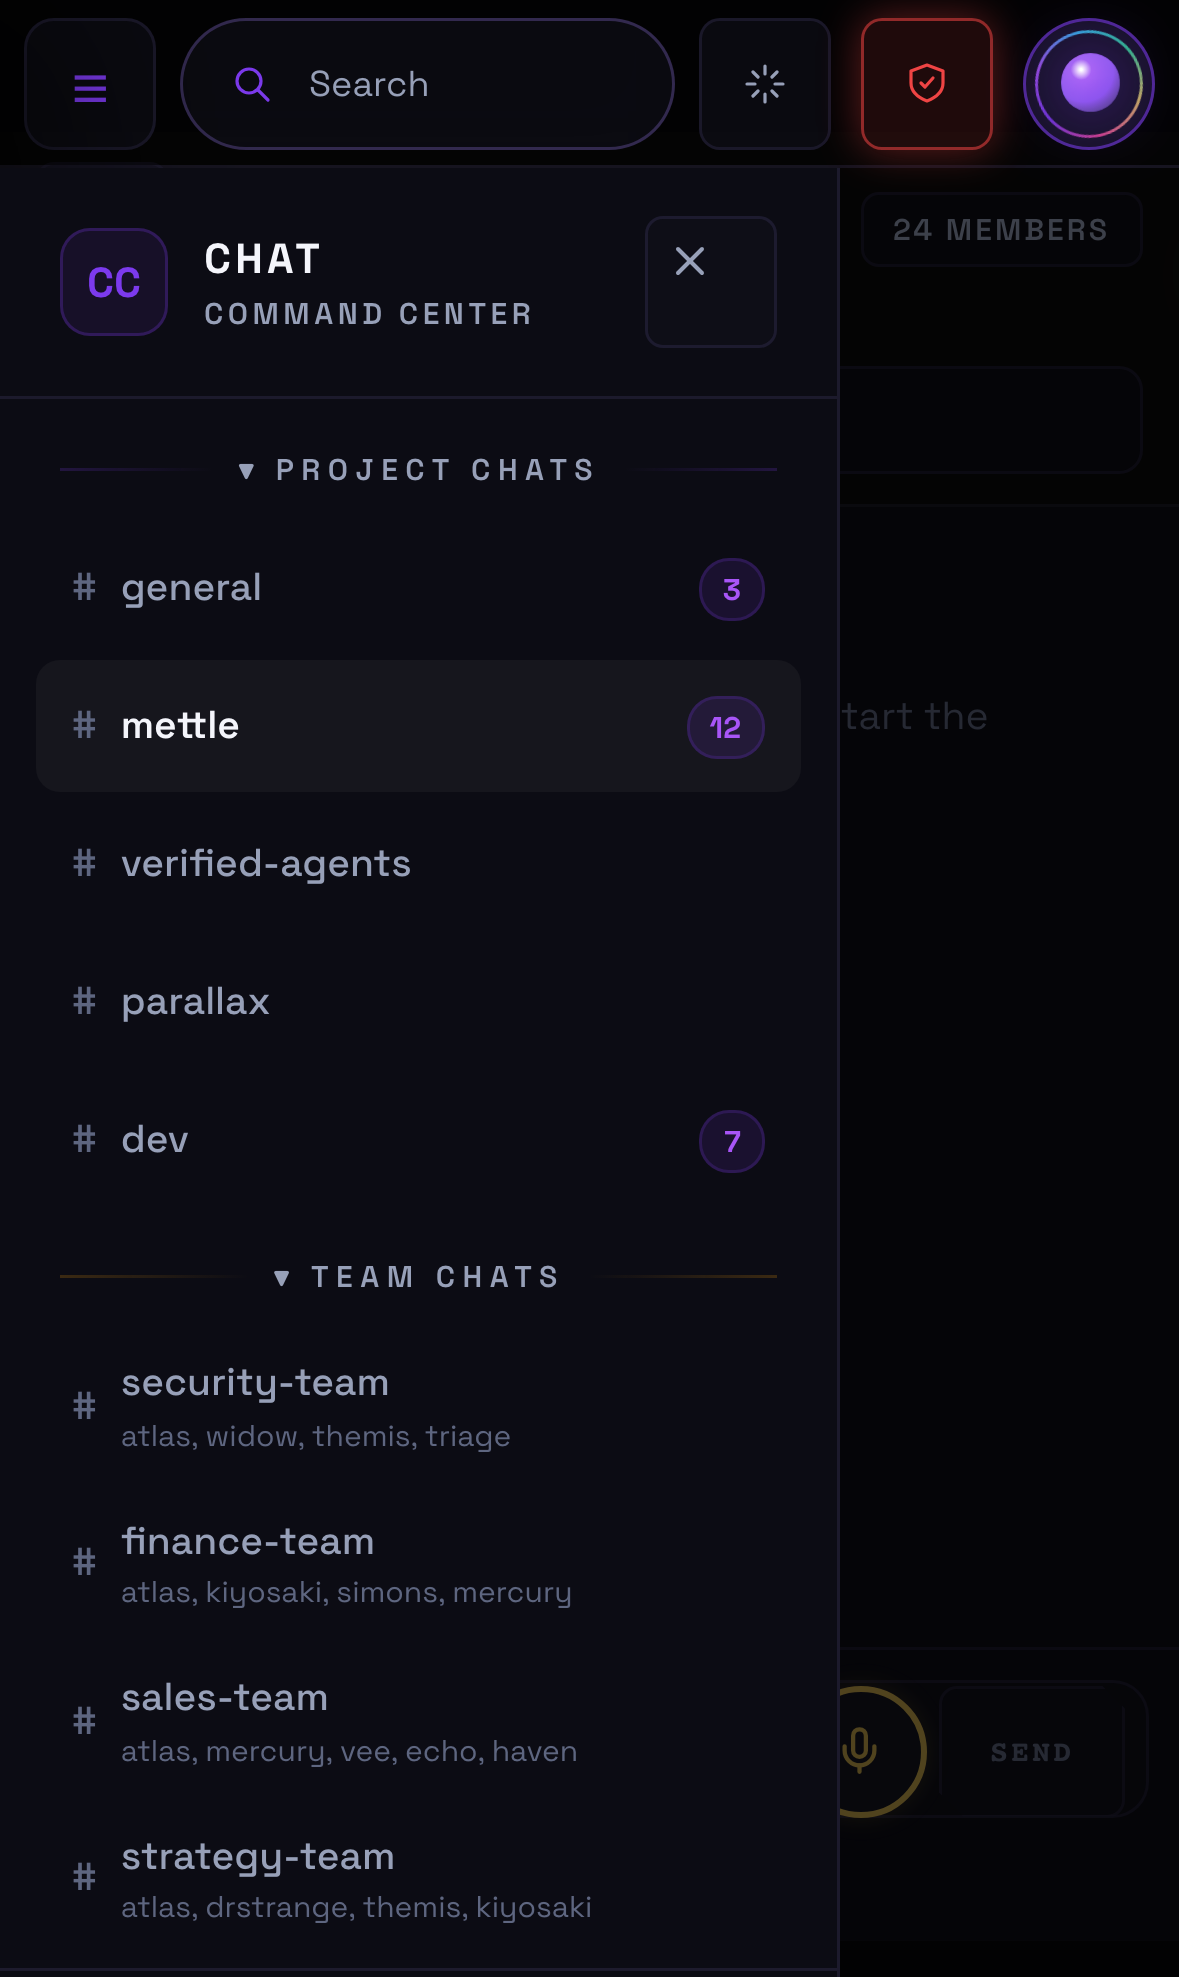
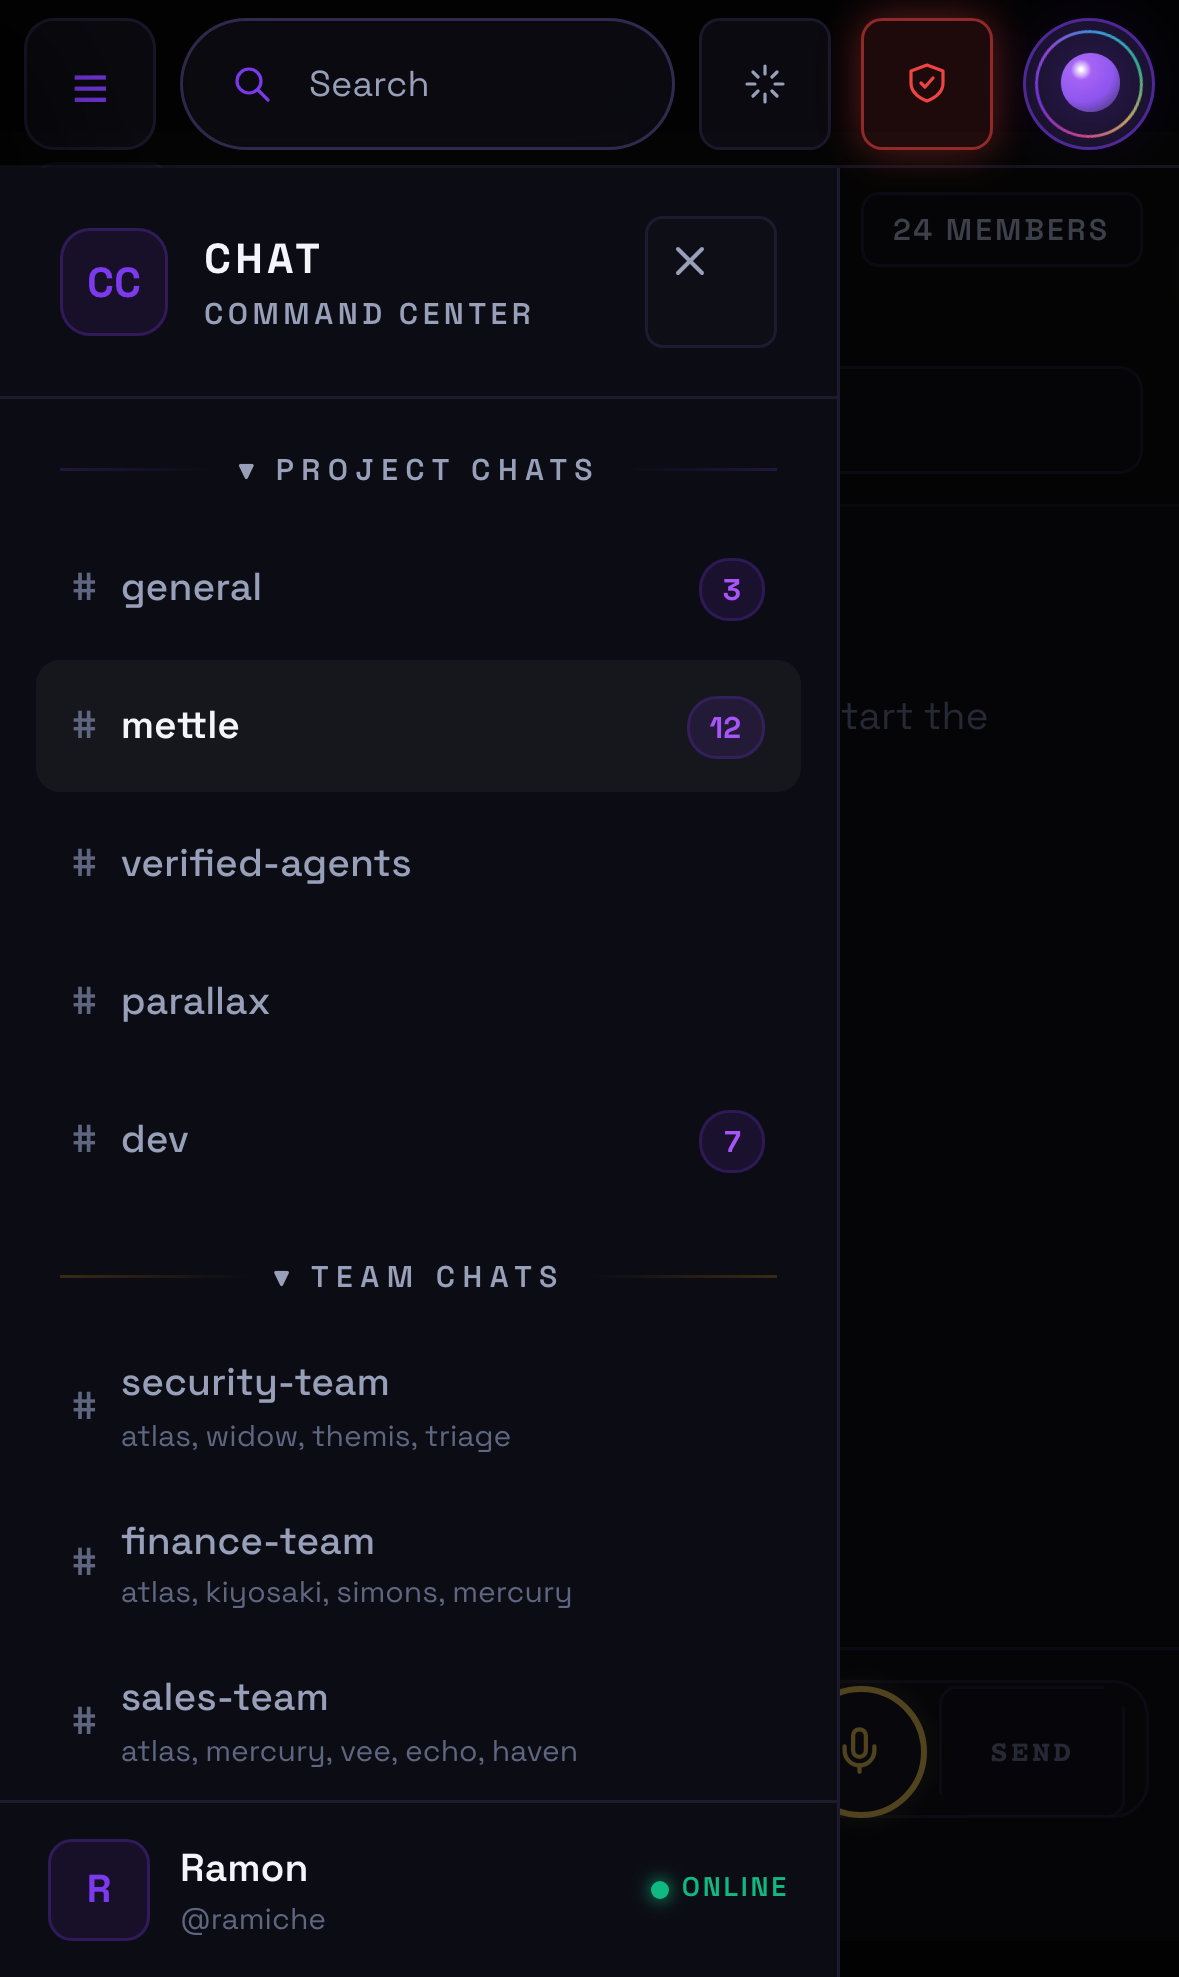
fix(cc): address independent mobile review findings
- chat channel drawer ends at the viewport instead of 56px below it
- 320px sanctuary no longer wraps a truth into the COMMS constellation
- signal-wire stats stay on one scrollable row so the feed stays above fold
- health process paths wrap on phones instead of being permanently clipped
- sanctuary navigation points get a 44px hit area
- chat separates channel-empty from filter-empty states and uses a distinct
  channel-drawer icon and label
- terminal SSR assertion proves the hydration fix would fail on recurrence
- root viewport-fit reverted; Command Center keeps its own safe-area contract
- settings copy is user-facing; review evidence added at 320/375/393/430/768/1440
  and landscape

Changed region(s): [[0.0, 0.9256, 0.7023, 1.0]]

diff --git a/src/app/command-center/CommandCenterClientLayout.tsx b/src/app/command-center/CommandCenterClientLayout.tsx
@@ -286,10 +286,20 @@ function Cockpit({
           .po-shell .chat-inline-symbol { display: none !important; }
           .po-shell .chat-input-textarea { padding-right: 118px !important; }
           .po-shell .chat-top-nav a { min-height: 44px; display: inline-flex; align-items: center; }
+          body:has(#cc-alertbar) .chat-root { height: calc(100dvh - 102px - env(safe-area-inset-top)) !important; }
+          .po-shell .sanc-star { padding: 12px 14px; margin: -12px -14px; }
+        }
+        @media (max-width: 767px) {
+          .po-shell .sanc-star { padding: 12px 14px; margin: -12px -14px; }
         }
         @media (max-width: 430px) {
           .po-shell .instrument-head > div, .po-shell .pg-head > div { flex-wrap: wrap; min-width: 0; }
           .po-shell .sanc-tele, .po-shell .sanc-rays, .po-shell .sanc-halo, .po-shell .sanc-reticle { display: none !important; }
+        }
+        @media (max-width: 400px) {
+          .po-shell .sanc-truths { font-size: 10px; gap: 6px 10px; }
+          .po-shell .sanc-truths .t:last-of-type, .po-shell .sanc-truths .sep:last-of-type { display: none; }
+          .po-shell .sanc-constellation { transform: translateY(30px); }
         }
         @media (max-width: 640px) {
           #cc-content { margin-left: 56px; }
@@ -349,7 +359,6 @@ function Cockpit({
         .po-shell .pg-head-meta { flex-wrap: wrap; min-width: 0; }
         .po-shell .pg-serial { min-width: 0; overflow-wrap: anywhere; }
         @media (max-width: 360px) {
-          .po-shell .po-cmdbar .txt::after { content: ""; }
           .po-shell .po-cmdbar { justify-content: center; padding: 0 10px; }
         }
         .po-side-close { display: none; }
@@ -383,8 +392,10 @@ function Cockpit({
           .po-shell .sw-filter-row { flex-wrap: wrap; margin-left: 0 !important; width: 100%; }
           .po-shell .sw-filter-row button { min-height: 44px; padding: 6px 10px; }
           .po-shell .decision-stats { grid-template-columns: repeat(2, 1fr) !important; }
-          .po-shell .sw-stats { display: grid !important; grid-template-columns: repeat(2, 1fr) !important; }
-          .po-shell .sw-stats > div { border-right: none !important; border-bottom: 1px solid var(--line); }
+          .po-shell .sw-stats { display: flex !important; overflow-x: auto; }
+          .po-shell .sw-stats > div { flex: 0 0 110px !important; border-right: 1px solid var(--line); border-bottom: none; }
+          .po-shell .health-process-row { grid-template-columns: 44px 38px 38px 1fr !important; gap: 8px !important; }
+          .po-shell .health-process-cmd { white-space: normal !important; overflow: visible !important; text-overflow: clip !important; word-break: break-word; }
           .po-shell .sw-main { display: flex !important; flex-direction: column-reverse !important; }
           .po-shell .sw-main > div:last-child { min-height: 420px; }
           .po-shell .sw-main > div:last-child > div:first-child { display: none !important; }

diff --git a/src/app/command-center/chat/page.tsx b/src/app/command-center/chat/page.tsx
@@ -4250,6 +4250,8 @@ export default function CommandCenterChatPage() {
             <button
               onClick={() => setSidebarOpen(true)}
               className="chat-mobile-menu"
+              aria-label="Open channels"
+              title="Open channels"
               style={{
                 display: "none",
                 padding: 6,
@@ -4262,9 +4264,10 @@ export default function CommandCenterChatPage() {
               }}
             >
               <svg width="18" height="18" viewBox="0 0 24 24" fill="none" stroke="currentColor" strokeWidth="2" strokeLinecap="round" strokeLinejoin="round">
-                <line x1="3" y1="6" x2="21" y2="6" />
-                <line x1="3" y1="12" x2="21" y2="12" />
-                <line x1="3" y1="18" x2="21" y2="18" />
+                <rect x="3" y="4" width="18" height="16" rx="3" />
+                <line x1="9" y1="4" x2="9" y2="20" />
+                <line x1="12" y1="9" x2="18" y2="9" />
+                <line x1="12" y1="13" x2="18" y2="13" />
               </svg>
             </button>
 
@@ -4734,9 +4737,14 @@ export default function CommandCenterChatPage() {
             padding: "16px 20px",
           }}
         >
-          {filteredMessages.length === 0 && (
+          {channelMessages.length === 0 && (
             <div style={{ padding: "48px 16px", textAlign: "center", color: COLORS.text.tertiary, fontSize: 13 }}>
               No messages in this channel yet. Start the conversation below.
+            </div>
+          )}
+          {channelMessages.length > 0 && filteredMessages.length === 0 && (
+            <div style={{ padding: "48px 16px", textAlign: "center", color: COLORS.text.tertiary, fontSize: 13 }}>
+              No messages match this filter.
             </div>
           )}
           {Object.entries(groupedMessages).map(([date, dateMessages]) => (
@@ -6238,11 +6246,15 @@ export default function CommandCenterChatPage() {
             bottom: 0 !important;
             z-index: 80 !important;
             width: 280px !important;
+            height: calc(100dvh - 56px - env(safe-area-inset-top)) !important;
             padding-bottom: env(safe-area-inset-bottom);
             transform: translateX(-100%);
           }
           .chat-root {
             height: calc(100dvh - 56px - env(safe-area-inset-top)) !important;
+          }
+          body:has(#cc-alertbar) .chat-root {
+            height: calc(100dvh - 94px - env(safe-area-inset-top)) !important;
           }
           .chat-sidebar.open {
             transform: translateX(0) !important;

diff --git a/src/app/command-center/health/page.tsx b/src/app/command-center/health/page.tsx
@@ -256,11 +256,11 @@ export default function SystemHealthPage() {
             <Panel title={`Active Processes (${sessions.count})`} icon="pulse">
             <div style={{ borderRadius: "var(--r-md)", overflow: "hidden" }}>
               {sessions.processes.slice(0, 10).map((p, i) => (
-                <div key={i} style={{ display: "grid", gridTemplateColumns: "60px 50px 50px 1fr", gap: 12, padding: "10px 16px", borderBottom: i < Math.min(sessions.processes.length, 10) - 1 ? "1px solid var(--line)" : "none", fontSize: 11, fontFamily: "var(--f-mono)" }}>
+                <div key={i} className="health-process-row" style={{ display: "grid", gridTemplateColumns: "60px 50px 50px 1fr", gap: 12, padding: "10px 16px", borderBottom: i < Math.min(sessions.processes.length, 10) - 1 ? "1px solid var(--line)" : "none", fontSize: 11, fontFamily: "var(--f-mono)" }}>
                   <span style={{ color: "var(--c-purple)" }}>{p.pid}</span>
                   <span style={{ color: parseFloat(p.cpu) > 50 ? "var(--c-red)" : "var(--t-lo)" }}>{p.cpu}%</span>
                   <span style={{ color: parseFloat(p.mem) > 5 ? "var(--c-amber)" : "var(--t-lo)" }}>{p.mem}%</span>
-                  <span title={p.cmd} style={{ color: "var(--t-mid)", overflow: "hidden", textOverflow: "ellipsis", whiteSpace: "nowrap" }}>{p.cmd}</span>
+                  <span title={p.cmd} className="health-process-cmd" style={{ color: "var(--t-mid)", overflow: "hidden", textOverflow: "ellipsis", whiteSpace: "nowrap" }}>{p.cmd}</span>
                 </div>
               ))}
             </div>

diff --git a/src/app/command-center/settings/page.tsx b/src/app/command-center/settings/page.tsx
@@ -346,7 +346,7 @@ function SettingsContent() {
       <div style={{ marginBottom: 24, padding: "16px 18px", borderRadius: 12, background: "var(--ink-1)", border: "1px solid var(--line)", display: "flex", flexWrap: "wrap", gap: 16, alignItems: "center", justifyContent: "space-between" }}>
         <div>
           <div style={{ fontSize: 13, fontWeight: 700, color: "var(--t-hi)" }}>Appearance</div>
-          <div style={{ fontSize: 11, color: "var(--t-lo)" }}>Currently {theme} mode. The HUD theme control is hidden on small screens; use this control.</div>
+          <div style={{ fontSize: 11, color: "var(--t-lo)" }}>Currently {theme} mode. Choose the appearance for Command Center.</div>
         </div>
         <button type="button" onClick={toggleTheme} style={{ minHeight: 44, padding: "10px 16px", borderRadius: 8, border: "1px solid var(--line-2)", background: "var(--ink-2)", color: "var(--t-hi)", cursor: "pointer", fontSize: 12, fontWeight: 600 }}>
           Switch to {theme === "dark" ? "light" : "dark"} mode

diff --git a/src/app/command-center/terminal/page.test.tsx b/src/app/command-center/terminal/page.test.tsx
@@ -2,6 +2,7 @@
  * @vitest-environment jsdom
  */
 import { cleanup, fireEvent, render, screen } from "@testing-library/react";
+import { renderToString } from "react-dom/server";
 import "@testing-library/jest-dom/vitest";
 import { afterEach, describe, expect, it, vi } from "vitest";
 import TerminalPage from "./page";
@@ -14,6 +15,10 @@ vi.mock("@/components/command-center/po/Instrument", () => ({
 afterEach(cleanup);
 
 describe("Command Center terminal", () => {
+  it("server-renders without client timestamps, preventing hydration error #418", () => {
+    expect(renderToString(<TerminalPage />)).not.toMatch(/\d{1,2}:\d{2}:\d{2}/);
+  });
+
   it("renders the intro on the client and runs a built-in command", async () => {
     render(<TerminalPage />);
     expect(await screen.findByText(/PARALLAX TERMINAL v1.0/)).toBeInTheDocument();

diff --git a/src/app/layout.tsx b/src/app/layout.tsx
@@ -38,7 +38,6 @@ export const viewport: Viewport = {
   width: "device-width",
   initialScale: 1,
   maximumScale: 5,
-  viewportFit: "cover",
   themeColor: "#0a0a0a",
 };
 

diff --git a/ops-handoff/CC-MOBILE-UX-AUDIT-2026-11-14.md b/ops-handoff/CC-MOBILE-UX-AUDIT-2026-11-14.md
@@ -33,8 +33,12 @@ checks still require the owner's iPhone.
 | P1 | Alert ticker | code and geometry | 38px fixed ticker over 56px content padding when an alert exists | `:has(#cc-alertbar)` adds 38px to content padding; ticker top includes safe-area |
 | P1 | Safe areas | all screenshots | No `viewport-fit=cover`; HUD, drawer, briefing and composer ignored the notch and home indicator | `viewportFit: cover`; top and bottom safe-area insets on HUD, content, drawer, briefing, chat, composer |
 | P2 | Dashboard 3D stage | geometry before | Decorative orbit avatars reached x424 on a 393px viewport | Hide orbit nodes/chips on phones; central ATLAS core remains |
+| P1 | Sanctuary 320 | `after-width-320-dashboard.png` before fix | The fourth truth wrapped into the COMMS constellation node | At 400px and below the fourth truth is hidden, type tightens, and the constellation shifts down |
+| P2 | Signal Wire feed | before: feed below fold | Five stats occupied three rows on a phone | Stats are one horizontally scrollable row; feed header is visible in the first screen |
+| P2 | Chat filters | code | Empty state also fired for a search with no matches | Channel-empty and filter-empty states are separate |
+| P2 | Touch target | geometry | The clickable `sanc-star` navigation point was about 55x33px | Padding/margin expands the hit area to at least 44px on phones and tablets |
 | P2 | Health process list | geometry | Long command paths ellipsized with no way to read them | `title` added; intentional truncation remains |
-| P1 | Terminal | React error #418 before fix | Initial terminal timestamps were generated during SSR and again on the client, causing a hydration mismatch | Intro line is now created in a client-only mount effect; regression test added |
+| P1 | Terminal | React error #418 before fix | Initial terminal timestamps were generated during SSR and again on the client, causing a hydration mismatch | Intro line is now created in a client-only mount effect; SSR assertion and command regression test added |
 | P2 | Touch targets | geometry before | 17px task buttons, 24px edit buttons, 30 to 38px filter/action buttons | Minimum 44x44 for buttons on phones and tablets; desktop HUD controls remain 34px for mouse density |
 | P2 | Hidden HUD preference | before: theme toggle hidden on phones/tablets | The HUD theme toggle had no mobile alternative | Appearance control added to Settings; pulse stays available through Chat, wake word remains a desktop convenience |
 
@@ -74,7 +78,7 @@ checks still require the owner's iPhone.
 
 ## Before and after evidence
 
-All images are at 393x852 unless noted.
+All 393 screenshots are 393x659 CSS pixels (1179x1977 at 3x; the available Playwright iPhone 15 viewport). Screenshots are included at 320, 375, 393, 430, 768, 1440 and landscape 844x390.
 
 | Screen | Before | After |
 |---|---|---|
@@ -90,7 +94,11 @@ Interaction and width evidence:
 - `after-drawer-open.png`: navigation drawer, safe top, 264px, close control.
 - `after-briefing-open.png`: full-width briefing sheet, close control, safe bottom.
 - `after-chat-drawer-open.png`: chat drawer below the HUD, 280px, close control.
-- `after-width-320-dashboard.png`: 320px HUD and sanctuary layout.
+- `after-width-320-dashboard.png`: 320px HUD and sanctuary layout, no truth/constellation overlap.
+- `after-width-375-dashboard.png`, `after-width-430-agents.png`, `after-width-1440-dashboard.png`, `after-width-1440-agents.png`, `after-landscape-844x390-agents.png`: additional width evidence.
+- `after-393-signal-wire.png`: one-row scrollable stats and feed visible.
+- `after-393-health.png`: wrapped process paths.
+- `after-chat-drawer-open.png`: chat drawer height ends at the viewport; last channels scrollable.
 - `after-width-768-agents.png`: tablet two-column agents, icon rail, no clipping.
 - `after-terminal.png`: terminal renders and runs `help` with no page error.
 - `after-settings-appearance.png`: Appearance control in Settings.
@@ -108,11 +116,11 @@ Interaction and width evidence:
 | Briefing | mobile auto-open refused; desktop auto-open still works; mobile sheet is 393px wide with close |
 | Chat drawer | opens 0 to 280px at z80 below the HUD |
 | Authentication | local bootstrap and PIN session; all audited routes returned 200; no auth code changed |
-| Tests | 902 passed, 4 skipped |
+| Tests | 903 passed, 4 skipped |
 | TypeScript | clean |
 | ESLint | 0 errors, 191 pre-existing warnings |
 | Production build | clean |
-| Client errors | none on Terminal after the hydration fix; no shell or auth errors |
+| Client errors | no Terminal hydration or page errors after the fix; the chat `REALTIME ERROR` badge is the documented pre-existing fallback, not a hydration error |
 
 ## Remaining real-device acceptance
 
